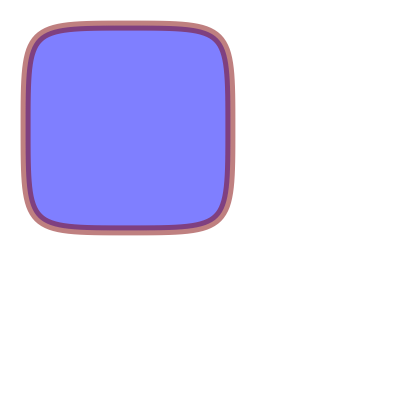
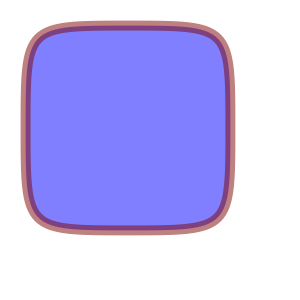
[images]update some images

diff --git a/main.c b/main.c
@@ -117,7 +117,7 @@ static void test_smile(const char * filename)
 
 static void test_dash(const char * filename)
 {
-	struct cg_surface_t * surface = cg_surface_create(400, 400);
+	struct cg_surface_t * surface = cg_surface_create(300, 300);
 	struct cg_ctx_t * ctx = cg_create(surface);
 
 	double dashes[] = {50.0,  /* ink */
@@ -142,7 +142,7 @@ static void test_dash(const char * filename)
 
 static void test_fill_and_stroke(const char * filename)
 {
-	struct cg_surface_t * surface = cg_surface_create(400, 400);
+	struct cg_surface_t * surface = cg_surface_create(300, 300);
 	struct cg_ctx_t * ctx = cg_create(surface);
 
 	cg_move_to(ctx, 128.0, 25.6);
@@ -170,7 +170,7 @@ static void test_fill_and_stroke(const char * filename)
 
 static void test_multi_segment_caps(const char * filename)
 {
-	struct cg_surface_t * surface = cg_surface_create(400, 400);
+	struct cg_surface_t * surface = cg_surface_create(300, 300);
 	struct cg_ctx_t * ctx = cg_create(surface);
 
 	cg_move_to(ctx, 50.0, 75.0);
@@ -193,7 +193,7 @@ static void test_multi_segment_caps(const char * filename)
 
 static void test_set_line_cap(const char * filename)
 {
-	struct cg_surface_t * surface = cg_surface_create(400, 400);
+	struct cg_surface_t * surface = cg_surface_create(300, 300);
 	struct cg_ctx_t * ctx = cg_create(surface);
 
 	cg_set_line_width(ctx, 30.0);
@@ -228,7 +228,7 @@ static void test_set_line_cap(const char * filename)
 
 static void test_set_line_join(const char * filename)
 {
-	struct cg_surface_t * surface = cg_surface_create(400, 400);
+	struct cg_surface_t * surface = cg_surface_create(300, 300);
 	struct cg_ctx_t * ctx = cg_create(surface);
 
 	cg_set_line_width(ctx, 40.96);
@@ -257,7 +257,7 @@ static void test_set_line_join(const char * filename)
 
 static void test_rounded_rectangle(const char * filename)
 {
-	struct cg_surface_t * surface = cg_surface_create(400, 400);
+	struct cg_surface_t * surface = cg_surface_create(300, 300);
 	struct cg_ctx_t * ctx = cg_create(surface);
 
 	double x = 25.6,
@@ -289,7 +289,7 @@ static void test_rounded_rectangle(const char * filename)
 
 static void test_curve_rectangle(const char * filename)
 {
-	struct cg_surface_t * surface = cg_surface_create(400, 400);
+	struct cg_surface_t * surface = cg_surface_create(300, 300);
 	struct cg_ctx_t * ctx = cg_create(surface);
 
 	double x0 = 25.6,
@@ -362,7 +362,7 @@ static void test_curve_rectangle(const char * filename)
 
 static void test_curve_to(const char * filename)
 {
-	struct cg_surface_t * surface = cg_surface_create(400, 400);
+	struct cg_surface_t * surface = cg_surface_create(300, 300);
 	struct cg_ctx_t * ctx = cg_create(surface);
 
 	double x = 25.6, y = 128.0;
@@ -389,7 +389,7 @@ static void test_curve_to(const char * filename)
 
 static void test_fill_style(const char * filename)
 {
-	struct cg_surface_t * surface = cg_surface_create(400, 400);
+	struct cg_surface_t * surface = cg_surface_create(300, 300);
 	struct cg_ctx_t * ctx = cg_create(surface);
 
 	cg_set_line_width(ctx, 6);
@@ -426,7 +426,7 @@ static void test_fill_style(const char * filename)
 
 static void test_clip(const char * filename)
 {
-	struct cg_surface_t * surface = cg_surface_create(400, 400);
+	struct cg_surface_t * surface = cg_surface_create(300, 300);
 	struct cg_ctx_t * ctx = cg_create(surface);
 
 	cg_arc(ctx, 128.0, 128.0, 76.8, 0, 2 * M_PI, 0);
@@ -450,7 +450,7 @@ static void test_clip(const char * filename)
 
 static void test_gradient(const char * filename)
 {
-	struct cg_surface_t * surface = cg_surface_create(400, 400);
+	struct cg_surface_t * surface = cg_surface_create(300, 300);
 	struct cg_ctx_t * ctx = cg_create(surface);
 
 	cg_arc(ctx, 128.0, 128.0, 76.8, 0, 2 * M_PI, 0);
